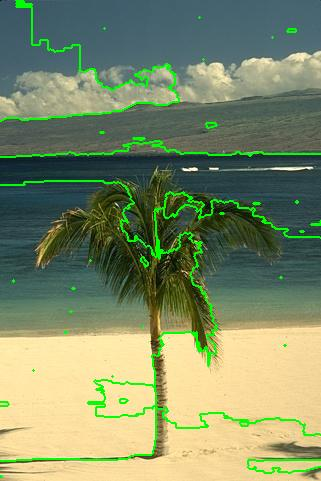
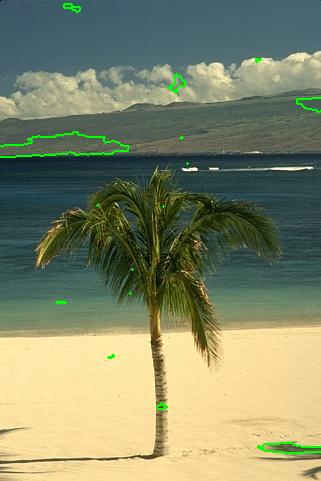
Optimized segmentation and picture creation
it's perrrrty fast bruh

diff --git a/src/printPackage/SegmentHandler.java b/src/printPackage/SegmentHandler.java
@@ -1,19 +1,17 @@
 package printPackage;
 
 import java.util.ArrayList;
+import java.util.HashSet;
 import java.util.List;
-import java.util.Random;
-import java.util.concurrent.ThreadLocalRandom;
+import java.util.Set;
 
 public class SegmentHandler {
 	
 	private int[] neighborArray;
-	private List<List<Integer>> segments;
-	private Random rand;
+	private List<HashSet<Integer>> segments;
 	
 	public SegmentHandler(int[] neighborArray) {
 		this.neighborArray = neighborArray;
-		rand = new Random();
 	}
 	
 	public void updateNeighborArray(int[] neighborArray) {
@@ -24,75 +22,59 @@ public class SegmentHandler {
 		segments = calculateSegments();
 	}
 	
-	public List<List<Integer>> getSegments() {
+	public List<HashSet<Integer>> getSegments() {
 		return segments;
 	}
 	
 
 	
-	private List<List<Integer>> calculateSegments() {
+	private List<HashSet<Integer>> calculateSegments() {
 		System.out.println("Calculating segments");
-		List<List<Integer>> segments = new ArrayList<List<Integer>>();
-		List<Integer> segment = new ArrayList<Integer>();
-		List<Integer> visited = new ArrayList<Integer>();
-		List<Integer> unvisited = new ArrayList<Integer>();
+		List<HashSet<Integer>> segments = new ArrayList<HashSet<Integer>>();
+		Set<Integer> segment = new HashSet<Integer>();
+//		Set<Integer> visited = new HashSet<Integer>();
+		Set<Integer> unvisited = new HashSet<Integer>();
 		for (int i = 0; i < neighborArray.length; i++) {
 			unvisited.add((Integer)i);
 		}
 		int next = 0;
 		int old;
-		boolean a;
-		while (visited.size() < neighborArray.length) {
+//		while (visited.size() < neighborArray.length) {
+		while (!unvisited.isEmpty()){
 			segment.add((Integer)next);
-//			for (int i = 0; i < unvisited.size(); i++) {
-//				if (unvisited.get(i) == next) {
-//					unvisited.remove(i);
-//					break;
-//				}
-//			}
 			unvisited.remove((Integer)next);
-			visited.add((Integer)next);
+//			visited.add((Integer)next);
 			old = next;
 			next = neighborArray[old];
 			if (segment.contains(next)) {
-				segments.add(new ArrayList<Integer>(segment));
-				segment.clear(); //remove this by simply instancing new? O(n)...
-				next = setNext(unvisited);
+				segments.add((HashSet<Integer>) segment);
+				segment = new HashSet<Integer>();
+				next = setNext((HashSet<Integer>)unvisited);
 				}
-			else if (visited.contains(next)) {
-				mergeSegments(segments, segment, next);
+			else if (!unvisited.contains(next)) {
+				mergeSegments(segments,(HashSet<Integer>) segment, next);
 				segment.clear();
-				next = setNext(unvisited);
+				next = setNext((HashSet<Integer>)unvisited);
 			}
 		}
-		System.out.println(segments);
+//		System.out.println(segments);
 		return segments;
 	}
 	
-	private int setNext(List<Integer> unvisited) {
-		int next;
+	private int setNext(HashSet<Integer> unvisited) {
 		if (unvisited.isEmpty()) {
 			return 0;
 		}
-		int r = rand.nextInt(unvisited.size());
-		next = unvisited.get(r);
-//		if (visited.size() == neighborArray.length) {
-//			next = 0;
-//		} else {
-//			next = ThreadLocalRandom.current().nextInt(0,neighborArray.length);
-//			while (visited.contains(next)) {
-//				next = ThreadLocalRandom.current().nextInt(0,neighborArray.length);
-//			}
-//		}
-		return next;
+		return unvisited.iterator().next(); //grab first available element
 	}
 	
-	private void mergeSegments(List<List<Integer>> segments, List<Integer> segment, int next) {
-		for (List<Integer> s : segments) {
+	private void mergeSegments(List<HashSet<Integer>> segments, HashSet<Integer> segment, int next) {
+		for (HashSet<Integer> s : segments) {
 			if (s.contains(next)) {
-				for (Integer integer : segment) {
-					s.add(integer);
-				}
+				s.addAll(segment);
+//				for (Integer integer : segment) {
+//					s.add(integer);
+//				}
 				return;
 			}
 		}

diff --git a/src/printPackage/PicPrinter.java b/src/printPackage/PicPrinter.java
@@ -2,8 +2,8 @@ package printPackage;
 
 import java.awt.Color;
 import java.util.ArrayList;
+import java.util.HashSet;
 import java.util.List;
-import java.util.concurrent.ThreadLocalRandom;
 
 import mst.FileHandler;
 
@@ -12,34 +12,34 @@ public class PicPrinter {
 	private Integer[] neighborArray;
 	private FileHandler fh;
 	
-	public PicPrinter(List<List<Integer>> segments, FileHandler fh) {
+	public PicPrinter(List<HashSet<Integer>> segments, FileHandler fh) {
 		this.fh = fh;
 //		generateImage(segments, fh);
 	}
 	
-	private List<Integer> getSegment(List<List<Integer>> segments, int t) {
-		for (List<Integer> segment : segments) {
+	private HashSet<Integer> getSegment(List<HashSet<Integer>> segments, int t) {
+		for (HashSet<Integer> segment : segments) {
 			if (segment.contains(t)) {
 				return segment;
 			}
 		}
-		return new ArrayList<Integer>();
+		return new HashSet<Integer>();
 	}
 	
 	
-	public void generateImage(List<List<Integer>> segments, FileHandler fh) {
+	public void generateImage(List<HashSet<Integer>> segments, FileHandler fh) {
 		System.out.println("Generating image");
 		Color[][] pixels = fh.getPixels();
 		int height = fh.getHeight();
 		int width = fh.getWidth();
-		System.out.println(height);
-		System.out.println(width);
+//		System.out.println(height);
+//		System.out.println(width);
 		int t = 0;
 		Color green = new Color(0, 255, 0);
 		for (int i = 0; i < height; i++) {
 			for (int j = 0; j < width; j++) {
 				//@TODO: use HashSet for faster lookup on getSegment and contains
-				List<Integer> segment = getSegment(segments, t);
+				HashSet<Integer> segment = getSegment(segments, t);
 				if (i != 0) {
 					if (! segment.contains(t-width)) {
 						pixels[i][j] = green;

diff --git a/src/mst/MinSpanTree.java b/src/mst/MinSpanTree.java
@@ -8,6 +8,7 @@ import java.util.ArrayList;
 import java.util.Collection;
 import java.util.Collections;
 import java.util.Comparator;
+import java.util.HashSet;
 import java.util.Iterator;
 import java.util.List;
 import java.util.Random;
@@ -161,11 +162,11 @@ public class MinSpanTree {
 //		System.out.print(genes[i]+" ");
 //		}
 //		System.out.println("next");
-		List<int[]> pop = mst.generateChromosomes(40, MST, genes);
+		List<int[]> pop = mst.generateChromosomes(17, MST, genes);
 		System.out.println("chromosomes generated");
 		SegmentHandler ss = new SegmentHandler(pop.get(pop.size()-1));
 		ss.updateSegments();
-		List<List<Integer>> seg = ss.getSegments();
+		List<HashSet<Integer>> seg = ss.getSegments();
 		PicPrinter pp = new PicPrinter(seg, fh);
 		pp.generateImage(seg, fh);
 //		for(int[] chromo : pop){
